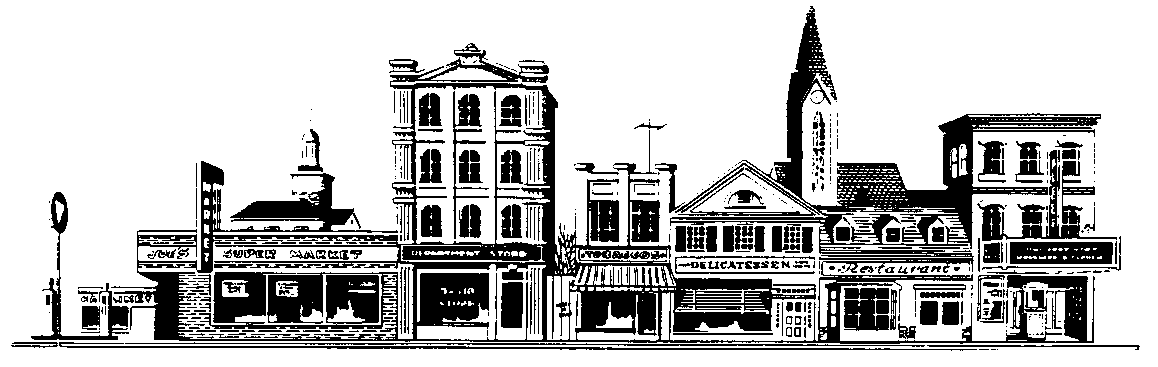
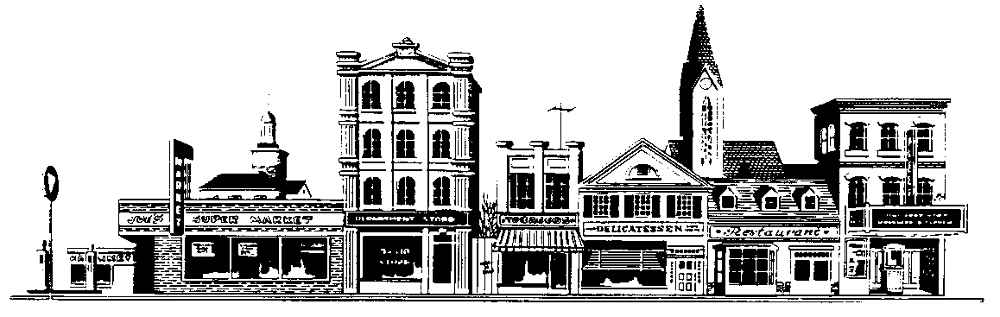
Optimize images and sizes. Only send images that are the size we are displaying instead of bigger images.

diff --git a/irexinc.org/assets/stylesheets/main.css b/irexinc.org/assets/stylesheets/main.css
@@ -24,7 +24,6 @@ img.center {
 }
 
 img.thumbnail {
-  height: 130px;
   margin-left: 9px;
   margin-bottom: 9px;
 }
@@ -165,17 +164,15 @@ iframe {
   background-color: #FFF;
   -webkit-box-shadow: 0 15px 10px -10px #444, 0 1px 4px #444;
   box-shadow: 0 15px 10px -10px #444, 0 1px 4px #444;
-  height: 430px;
+  height: 410px;
   margin-top: 15px;
   padding-bottom: 10px;
   position: relative;
 }
 
 #header #banner img {
-  height: 328px;
   margin: 10px 0 0 10px;
   padding-bottom: 60px;
-  width: 1000px;
 }
 
 #header #banner h1 {

diff --git a/app/views/speakers/details/2014-04-24_US31-Hamilton-County-Road-Project.blade.php b/app/views/speakers/details/2014-04-24_US31-Hamilton-County-Road-Project.blade.php
@@ -1,4 +1,4 @@
-<a class="fancybox" href="assets/images/new31.jpg" target="_blank"><img src="assets/images/new31.jpg" alt="New US 31 Hamilton County" class="thumbnail" align="right" /></a>
+<a class="fancybox" href="assets/images/new31.jpg" target="_blank"><img src="assets/images/new31.jpg" alt="New US 31 Hamilton County" class="thumbnail" align="right" height="130px" width="52px" /></a>
 
 <p>Coming to us from <a href="http://chacompanies.com" target="_blank">CHA Companies</a> is Jason Rowley, a consultant working for <a href="http://www.in.gov/indot/" target="_blank">INDOT</a>'s <a href="http://us31hamiltoncounty.in.gov" target="_blank">New US 31</a> road project in Hamilton County. Joining Jason is Michelle Kearns from <a href="http://www.empowerresults.com">Empower Results</a>.</p>
 

diff --git a/app/views/layouts/default.blade.php b/app/views/layouts/default.blade.php
@@ -37,7 +37,7 @@
     <div id="content-wrapper">
       <div id="header">
         <div id="banner">
-          <img src="/assets/images/banner.png" alt="Indiana Real Estate Exchangors, Inc." />
+          <img src="/assets/images/banner.png" alt="Indiana Real Estate Exchangors, Inc." width="1000px" height="317px" />
           <h1>Indiana Real Estate Exchangors, Inc.</h1>
         </div>
 
